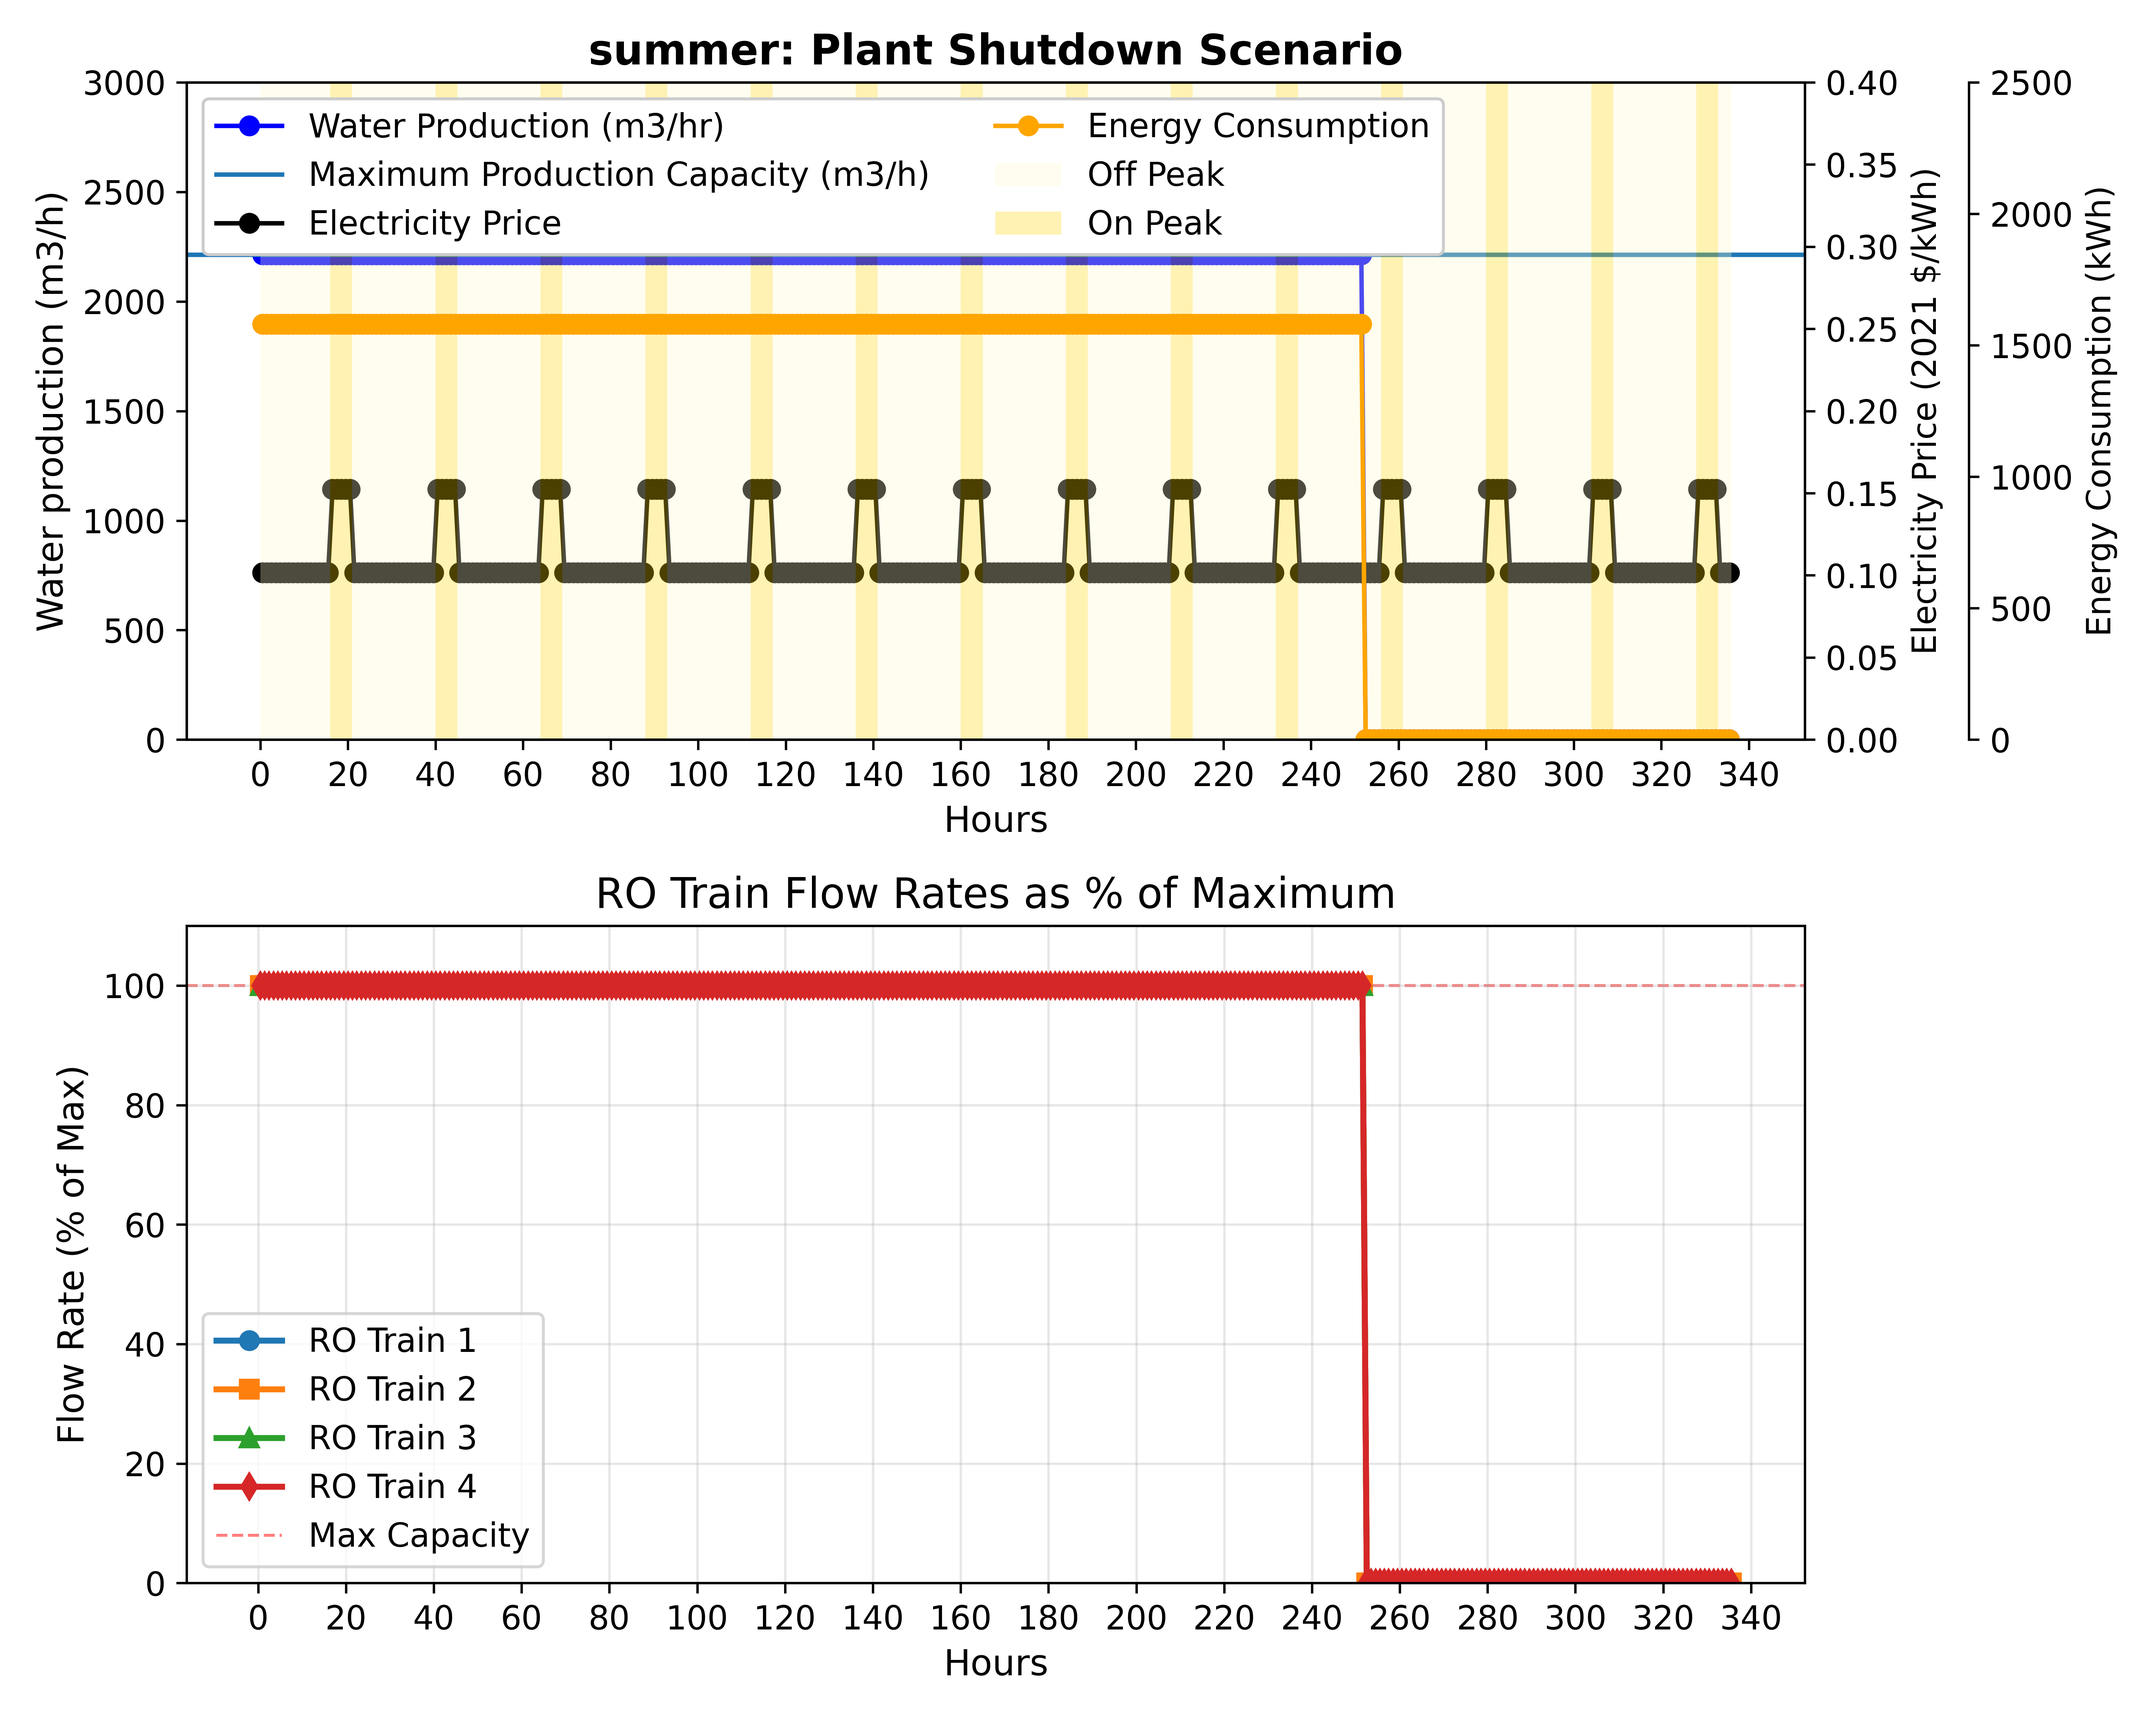
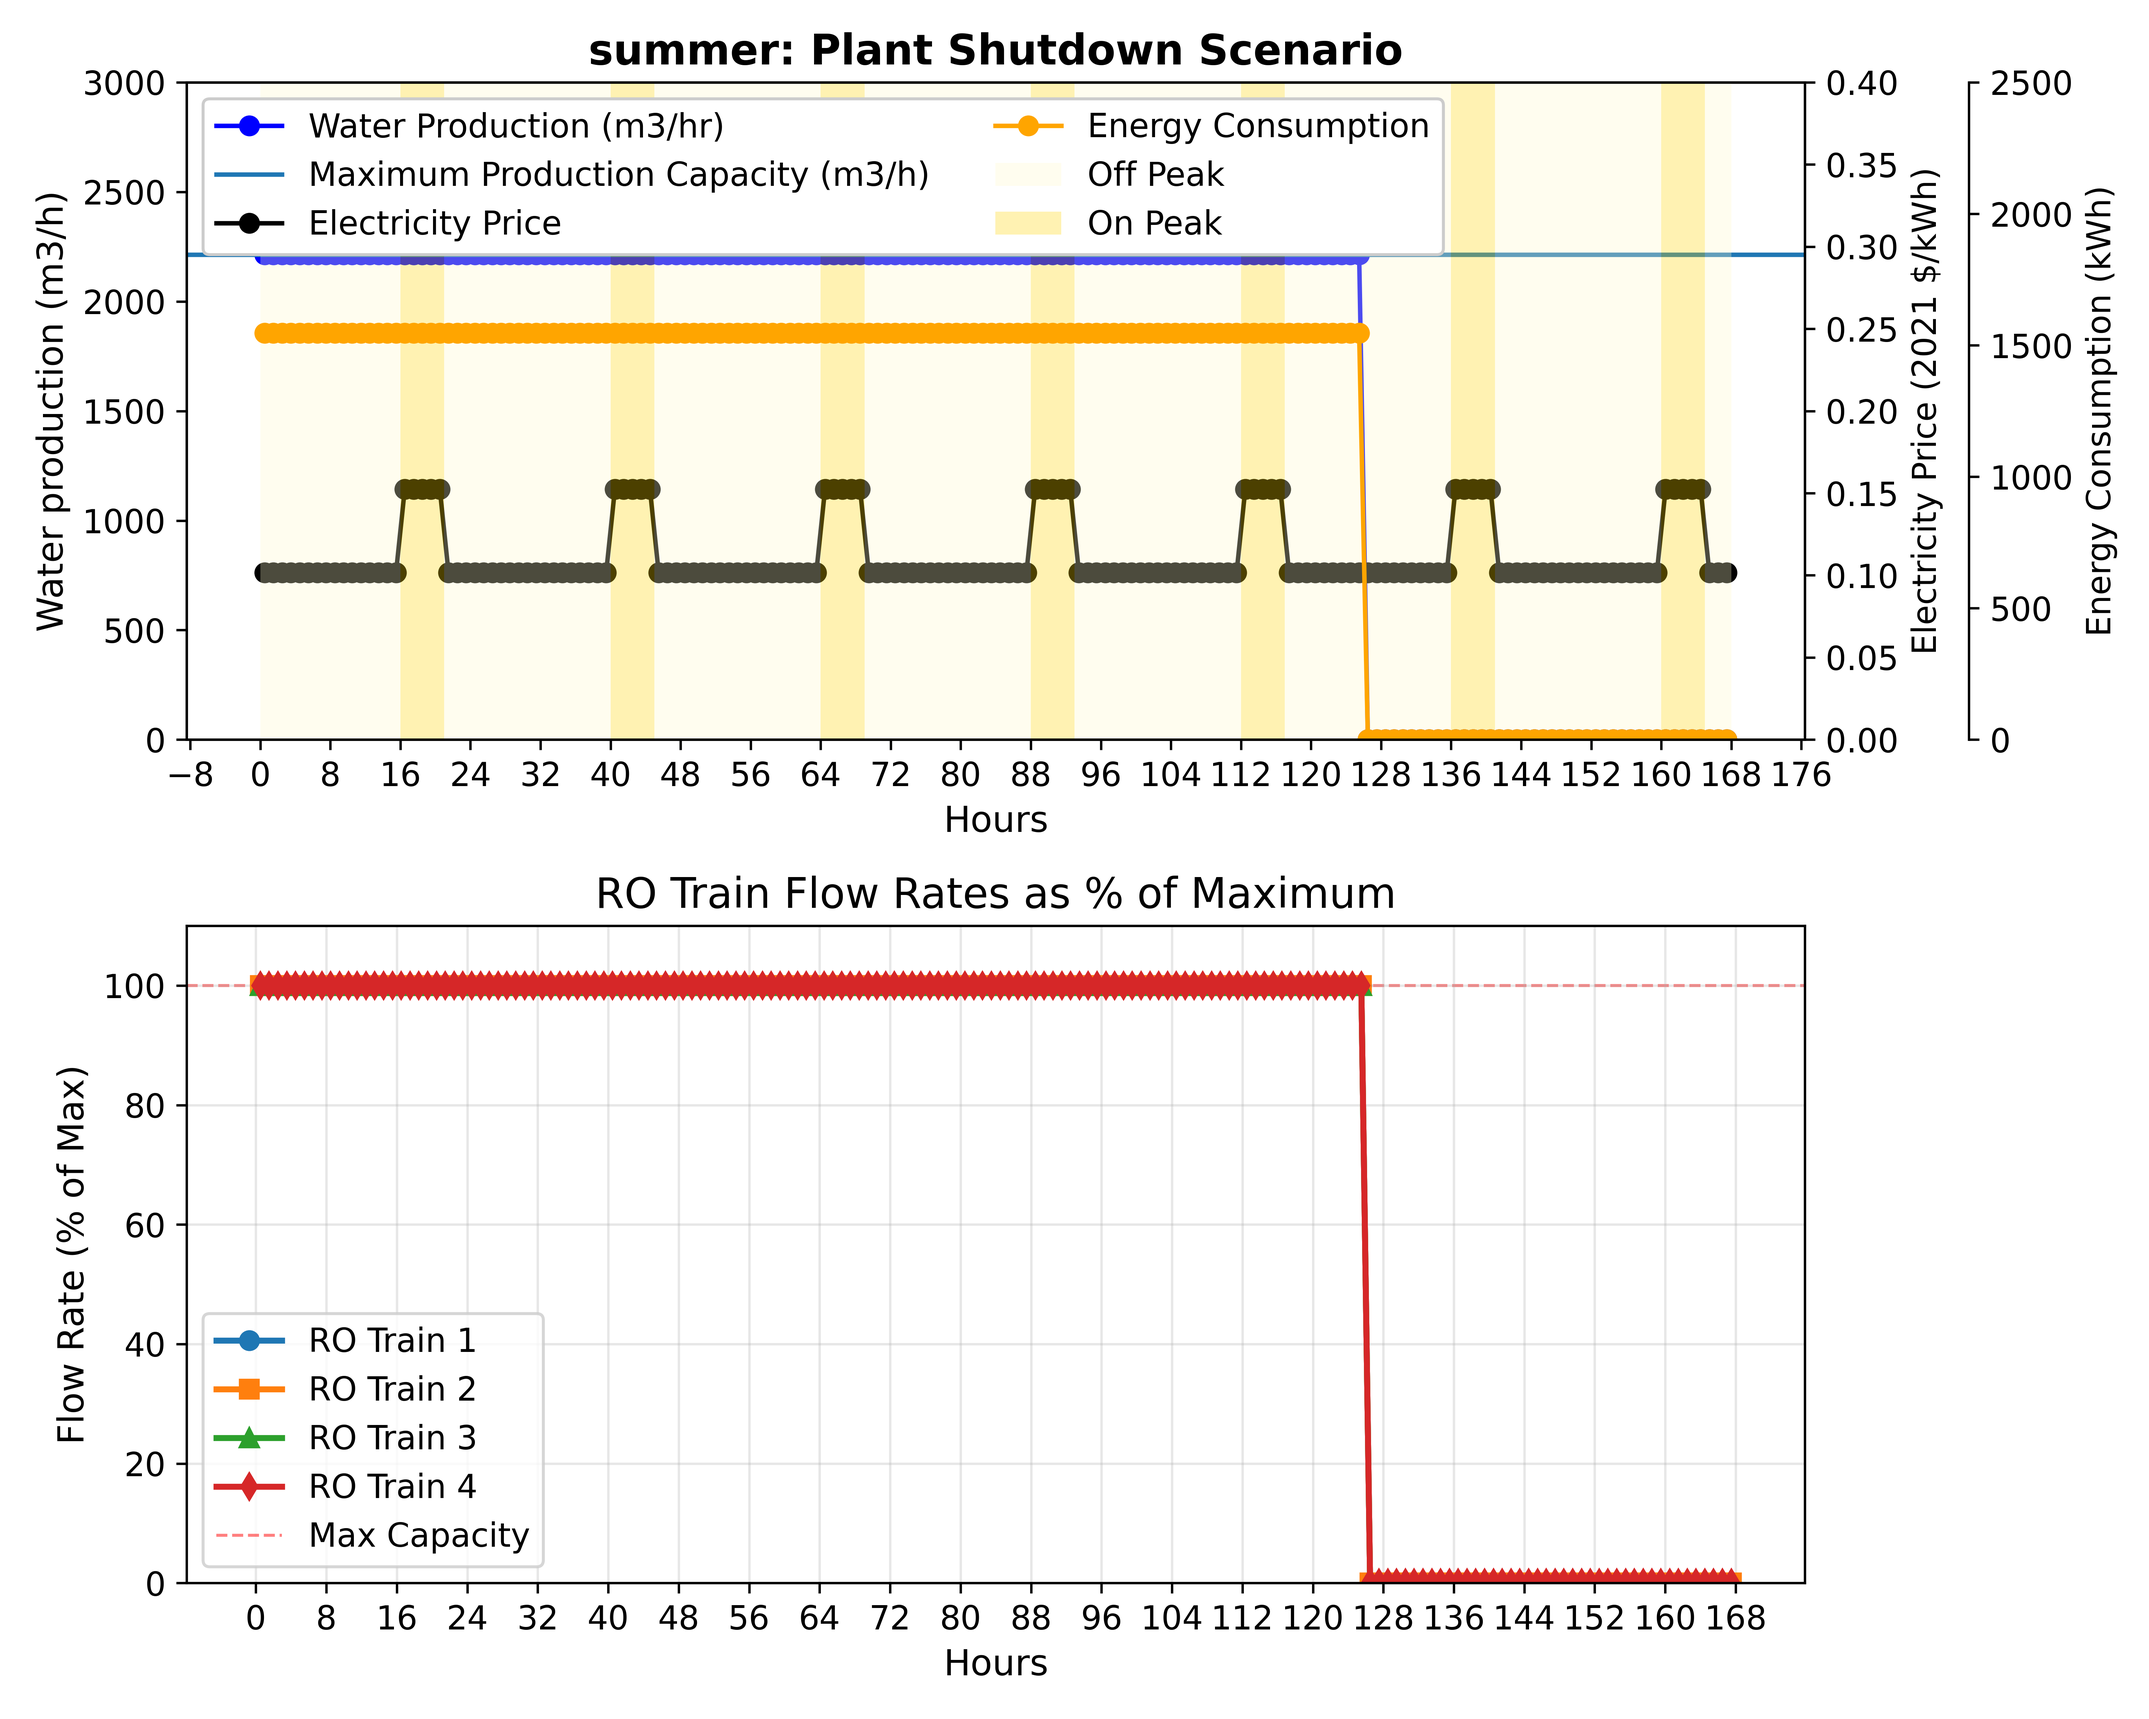
Changed energy surrogate function to prevent negative energy consumption at lower flowrates.

diff --git a/src/wrd/multiperiod/basic_scenarios_3_5_25/multiperiod_week_modular_variable.py b/src/wrd/multiperiod/basic_scenarios_3_5_25/multiperiod_week_modular_variable.py
@@ -10,7 +10,7 @@ from pyomo.util.check_units import assert_units_consistent
 import matplotlib.dates as mdates
 
 from idaes.core import FlowsheetBlock
-from pyomo.environ import Var, Binary, Constraint, Objective, value
+from pyomo.environ import Var, Binary, Constraint, Objective, Expression, value
 from watertap.core.util.model_diagnostics import *
 from idaes.core.util.model_statistics import *
 
@@ -264,25 +264,25 @@ def build_wrd_flowsheet(
     )
 
 
-    def calculate_ro_power(flow):
-        # Linear Fit -  Problem is MILP
-        return (0.837 * flow/(pyunits.m**3/pyunits.hr) -179.4) * pyunits.kW
-        # Quadratic Fit - Problem becomes MINLP
-        # return (0.0043*(flow/(pyunits.m**3/pyunits.hr))**2 - 3.72*flow/(pyunits.m**3/pyunits.hr) + 1015.8) * pyunits.kW
+    def calculate_ro_power(flow, train_on):
+        # Linear train power model (kW): 0 when train is off, fitted line when on
+        return (
+            0.837 * flow / (pyunits.m**3 / pyunits.hr) - 179.4 * train_on
+        ) * pyunits.kW
 
-    
-    def calculate_uf_power(flow):
-        # return 1 * pyunits.kW
-        return (0.199 * flow/(pyunits.m**3/pyunits.hr) - 30.0) * pyunits.kW # Very rough estimate here
-    
+    def calculate_uf_power(flow,uf_on):
+        # Linear UF power model (kW)
+        # If train_1_on == 0, then the whole system is off and no power use from UF
+        return (0.199 * flow / (pyunits.m**3 / pyunits.hr) - 30.0 * uf_on) * pyunits.kW
+
     @m.Constraint(doc="Calculate total treatment energy rate")
     def eq_treatment_energy_rate(b):
         return b.fs.treatment_energy_rate == (
-            calculate_ro_power(b.fs.water_production_ro_train_1)
-            + calculate_ro_power(b.fs.water_production_ro_train_2)
-            + calculate_ro_power(b.fs.water_production_ro_train_3)
-            + calculate_ro_power(b.fs.water_production_ro_train_4)
-            + calculate_uf_power(b.fs.total_water_production)
+            calculate_ro_power(b.fs.water_production_ro_train_1, b.fs.train_1_on)
+            + calculate_ro_power(b.fs.water_production_ro_train_2, b.fs.train_2_on)
+            + calculate_ro_power(b.fs.water_production_ro_train_3, b.fs.train_3_on)
+            + calculate_ro_power(b.fs.water_production_ro_train_4, b.fs.train_4_on)
+            + calculate_uf_power(b.fs.total_water_production,b.fs.train_1_on)
         )
 
     
@@ -759,7 +759,7 @@ if __name__ == "__main__":
     n_days = 7
     n_time_points = 24 * n_days
     daily_production_target = 0 * pyunits.m**3/pyunits.day
-    total_water_production_target = 0.8 * 53150 * pyunits.m**3/pyunits.day * n_days * pyunits.day
+    total_water_production_target = 0.75 * 53150 * pyunits.m**3/pyunits.day * n_days * pyunits.day
 
     season = 'winter'
 
@@ -816,17 +816,19 @@ if __name__ == "__main__":
     
     print(degrees_of_freedom(m))
 
+    print("-"*10,"Ouputs over Period","-"*10)
     print("Total production in m3:", m.total_production())
     print("Total target water production in m3:", total_water_production_target())
-    print("Total electricity cost for month:", m.total_cost(), "2021 $")
+    print("Total energy consumption in kWh:", m.fs.mp.blocks[n_time_points - 1].process.fs.acc_energy())
     
     print("-"*10,"Monthly Costs","-"*10)
     print("Fixed demand charge:", m.fs.fixed_demand_charge(), "2021 $")
     print("On-peak demand charge:", m.fs.on_peak_demand_charge(), "2021 $")
     print("Consumption charge:", (28/n_days)*sum(m.fs.mp.blocks[i].process.fs.grid_cost() for i in range(n_time_points)), "2021 $")
-
+    print("Total electricity cost for month:", m.total_cost(), "2021 $")
 
     plot_function(m, n_time_points, season)
-    plot_grid_cost_over_time(m, n_time_points, season)
+    # plot_grid_cost_over_time(m, n_time_points, season)
+
 
 

diff --git a/src/wrd/multiperiod/basic_scenarios_3_5_25/multiperiod_week_baseline.py b/src/wrd/multiperiod/basic_scenarios_3_5_25/multiperiod_week_baseline.py
@@ -10,7 +10,7 @@ from pyomo.util.check_units import assert_units_consistent
 import matplotlib.dates as mdates
 
 from idaes.core import FlowsheetBlock
-from pyomo.environ import Var, Binary, Constraint, Objective, value
+from pyomo.environ import Var, Binary, Constraint, Objective, Expression, value
 from watertap.core.util.model_diagnostics import *
 from idaes.core.util.model_statistics import *
 
@@ -249,26 +249,25 @@ def build_wrd_flowsheet(
         doc="Total treatment energy required per hour",
     )
 
-    def calculate_ro_power(flow):
-        # Linear Fit -  Problem is MILP
-        return (0.837 * flow/(pyunits.m**3/pyunits.hr) -179.4) * pyunits.kW
-        # Quadratic Fit - Problem becomes MINLP
-        # return (0.0043*(flow/(pyunits.m**3/pyunits.hr))**2 - 3.72*flow/(pyunits.m**3/pyunits.hr) + 1015.8) * pyunits.kW
+    def calculate_ro_power(flow, train_on):
+        # Linear train power model (kW): 0 when train is off, fitted line when on
+        return (
+            0.837 * flow / (pyunits.m**3 / pyunits.hr) - 179.4 * train_on
+        ) * pyunits.kW
 
-    
-    def calculate_uf_power(flow):
-        # return 1 * pyunits.kW
-        return (0.199 * flow/(pyunits.m**3/pyunits.hr) - 30.0) * pyunits.kW # Very rough estimate here
-
+    def calculate_uf_power(flow,uf_on):
+        # Linear UF power model (kW)
+        # If train_1_on == 0, then the whole system is off and no power use from UF
+        return (0.199 * flow / (pyunits.m**3 / pyunits.hr) - 30.0 * uf_on) * pyunits.kW
 
     @m.Constraint(doc="Calculate total treatment energy rate")
     def eq_treatment_energy_rate(b):
         return b.fs.treatment_energy_rate == (
-            calculate_ro_power(b.fs.water_production_ro_train_1)
-            + calculate_ro_power(b.fs.water_production_ro_train_2)
-            + calculate_ro_power(b.fs.water_production_ro_train_3)
-            + calculate_ro_power(b.fs.water_production_ro_train_4)
-            + calculate_uf_power(b.fs.total_water_production)
+            calculate_ro_power(b.fs.water_production_ro_train_1, b.fs.train_1_on)
+            + calculate_ro_power(b.fs.water_production_ro_train_2, b.fs.train_2_on)
+            + calculate_ro_power(b.fs.water_production_ro_train_3, b.fs.train_3_on)
+            + calculate_ro_power(b.fs.water_production_ro_train_4, b.fs.train_4_on)
+            + calculate_uf_power(b.fs.total_water_production,b.fs.train_1_on)
         )
 
     m.fs.acc_production = Var(
@@ -697,16 +696,18 @@ if __name__ == "__main__":
     
     print(degrees_of_freedom(m))
 
-    print(f"Total production in m3 for {n_days} days:", m.total_production())
+    print("-"*10,"Ouputs over Period","-"*10)
+    print("Total production in m3:", m.total_production())
     print("Total target water production in m3:", total_water_production_target())
-    print("Total electricity cost for month:", m.total_cost(), "2021 $")
+    print("Total energy consumption in kWh:", m.fs.mp.blocks[n_time_points - 1].process.fs.acc_energy())
     
     print("-"*10,"Monthly Costs","-"*10)
     print("Fixed demand charge:", m.fs.fixed_demand_charge(), "2021 $")
     print("On-peak demand charge:", m.fs.on_peak_demand_charge(), "2021 $")
     print("Consumption charge:", (28/n_days)*sum(m.fs.mp.blocks[i].process.fs.grid_cost() for i in range(n_time_points)), "2021 $")
+    print("Total electricity cost for month:", m.total_cost(), "2021 $")
 
     plot_function(m, n_time_points, season)
-    plot_grid_cost_over_time(m, n_time_points, season)
+    # plot_grid_cost_over_time(m, n_time_points, season)
 
     

diff --git a/src/wrd/multiperiod/basic_scenarios_3_5_25/multiperiod_week_modular.py b/src/wrd/multiperiod/basic_scenarios_3_5_25/multiperiod_week_modular.py
@@ -262,28 +262,29 @@ def build_wrd_flowsheet(
         doc="Total treatment energy required per hour",
     )
 
-    def calculate_ro_power(flow):
-        # Linear Fit -  Problem is MILP
-        return (0.837 * flow/(pyunits.m**3/pyunits.hr) -179.4) * pyunits.kW
-        # Quadratic Fit - Problem becomes MINLP
-        # return (0.0043*(flow/(pyunits.m**3/pyunits.hr))**2 - 3.72*flow/(pyunits.m**3/pyunits.hr) + 1015.8) * pyunits.kW
 
-    
-    def calculate_uf_power(flow):
-        # return 1 * pyunits.kW
-        return (0.199 * flow/(pyunits.m**3/pyunits.hr) - 30.0) * pyunits.kW # Very rough estimate here
+    def calculate_ro_power(flow, train_on):
+        # Linear train power model (kW): 0 when train is off, fitted line when on
+        return (
+            0.837 * flow / (pyunits.m**3 / pyunits.hr) - 179.4 * train_on
+        ) * pyunits.kW
+    # Quadratic Fit - Problem becomes MINLP
+        # return (0.0043*(flow/(pyunits.m**3/pyunits/hr))**2 - 3.72*flow/(pyunits.m**3/pyunits.hr) + 1015.8) * pyunits.kW
 
+    def calculate_uf_power(flow,uf_on):
+        # Linear UF power model (kW)
+        # If train_1_on == 0, then the whole system is off and no power use from UF
+        return (0.199 * flow / (pyunits.m**3 / pyunits.hr) - 30.0 * uf_on) * pyunits.kW
 
     @m.Constraint(doc="Calculate total treatment energy rate")
     def eq_treatment_energy_rate(b):
         return b.fs.treatment_energy_rate == (
-            calculate_ro_power(b.fs.water_production_ro_train_1)
-            + calculate_ro_power(b.fs.water_production_ro_train_2)
-            + calculate_ro_power(b.fs.water_production_ro_train_3)
-            + calculate_ro_power(b.fs.water_production_ro_train_4)
-            + calculate_uf_power(b.fs.total_water_production)
+            calculate_ro_power(b.fs.water_production_ro_train_1, b.fs.train_1_on)
+            + calculate_ro_power(b.fs.water_production_ro_train_2, b.fs.train_2_on)
+            + calculate_ro_power(b.fs.water_production_ro_train_3, b.fs.train_3_on)
+            + calculate_ro_power(b.fs.water_production_ro_train_4, b.fs.train_4_on)
+            + calculate_uf_power(b.fs.total_water_production,b.fs.train_1_on)
         )
-
     
     m.fs.acc_production = Var(
         initialize=0,
@@ -824,16 +825,17 @@ if __name__ == "__main__":
     
     print(degrees_of_freedom(m))
 
+    print("-"*10,"Ouputs over Period","-"*10)
     print("Total production in m3:", m.total_production())
     print("Total target water production in m3:", total_water_production_target())
-    print("Total electricity cost for month:", m.total_cost(), "2021 $")
+    print("Total energy consumption in kWh:", m.fs.mp.blocks[n_time_points - 1].process.fs.acc_energy())
     
     print("-"*10,"Monthly Costs","-"*10)
     print("Fixed demand charge:", m.fs.fixed_demand_charge(), "2021 $")
     print("On-peak demand charge:", m.fs.on_peak_demand_charge(), "2021 $")
     print("Consumption charge:", (28/n_days)*sum(m.fs.mp.blocks[i].process.fs.grid_cost() for i in range(n_time_points)), "2021 $")
-
+    print("Total electricity cost for month:", m.total_cost(), "2021 $")
 
     plot_function(m, n_time_points, season)
-    plot_grid_cost_over_time(m, n_time_points, season)
+    # plot_grid_cost_over_time(m, n_time_points, season)
     
